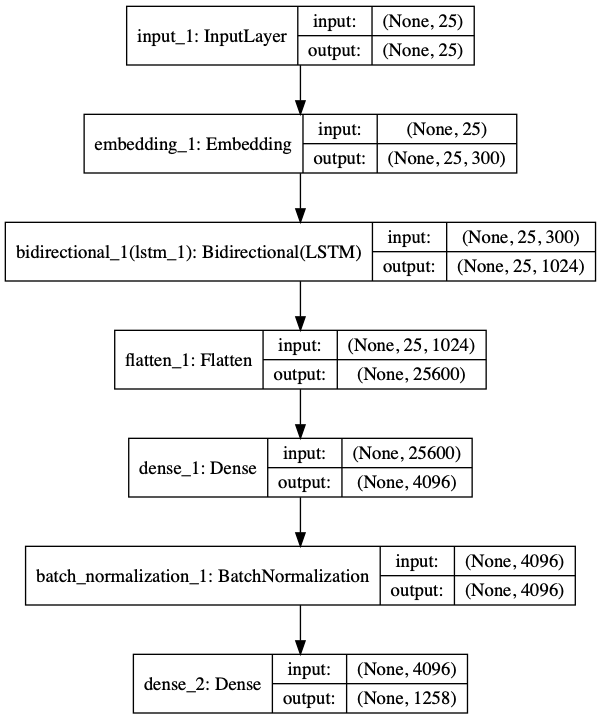
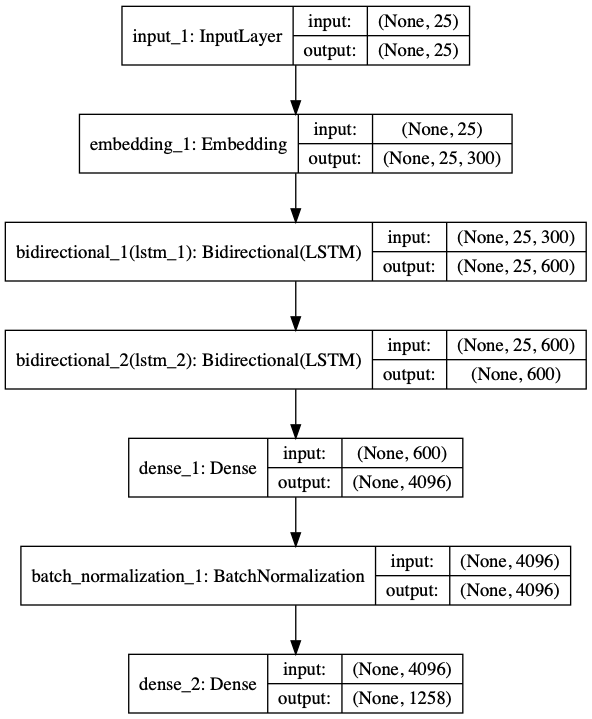
ChangeRNN
ChangeRNN

diff --git a/models/model_rnn.py b/models/model_rnn.py
@@ -76,7 +76,7 @@ for word, i in word_index.items():
 
 # 模型定义
 category_num = 1258
-recurrent_units_size = 512
+recurrent_units_size = 300
 dense_hidden_size = 4096
 # Inputs
 text_input = Input(shape=(maxlen,))
@@ -86,11 +86,14 @@ embedded_text = layers.Embedding(max_words, embedding_dim, weights=[embedding_ma
 
 # Recurrent layers
 # 1
-bidirect_rnn = layers.Bidirectional(
+bidirect_rnn_1 = layers.Bidirectional(
     layers.LSTM(recurrent_units_size, return_sequences=True, dropout=0.5, recurrent_dropout=0.5),
     merge_mode='concat'
 )(embedded_text)
-flatten_layer = layers.Flatten()(bidirect_rnn)
+bidirect_rnn_2 = layers.Bidirectional(
+    layers.LSTM(recurrent_units_size, dropout=0.5, recurrent_dropout=0.5),
+    merge_mode='concat'
+)(bidirect_rnn_1)
 
 # 2
 #bidirect_rnn = layers.Bidirectional(
@@ -105,13 +108,22 @@ flatten_layer = layers.Flatten()(bidirect_rnn)
 #)(embedded_text)
 #rnn_layer = layers.LSTM(recurrent_units_size, dropout=0.5, recurrent_dropout=0.5)(bidirect_rnn)
 
+# 4
+#bidirect_rnn = layers.Bidirectional(
+#    layers.LSTM(recurrent_units_size, return_sequences=True, dropout=0.5, recurrent_dropout=0.5),
+#    merge_mode='concat'
+#)(embedded_text)
+#flatten_layer = layers.Flatten()(bidirect_rnn)
+
 # Classifier
 # 1
-dense_1 = layers.Dense(dense_hidden_size, activation='relu')(flatten_layer)
+dense_1 = layers.Dense(dense_hidden_size, activation='relu')(bidirect_rnn_2)
 # 2
 #dense_1 = layers.Dense(dense_hidden_size, activation='relu')(bidirect_rnn)
 # 3
 #dense_1 = layers.Dense(dense_hidden_size, activation='relu')(rnn_layer)
+# 4
+#dense_1 = layers.Dense(dense_hidden_size, activation='relu')(flatten_layer)
 
 batchNorm_3 = layers.BatchNormalization()(dense_1)
 label_output = layers.Dense(category_num, activation='softmax')(batchNorm_3)
